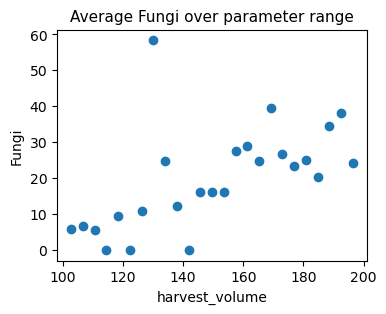
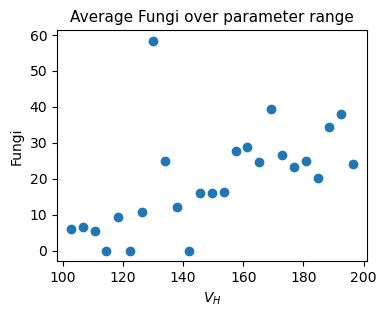
Some extra figures

diff --git a/Project/visualisation.py b/Project/visualisation.py
@@ -228,35 +228,40 @@ def plot_param_space_array(data, params, outputs):
     fig.show()
 
 
-def plot_param_range(data, param, outputs, param_range, mean_over_last=100):
+def plot_param_range(data, param, output, param_range, mean_over_last=100):
     """
     Create a plot that shows the output for a specific parameter over a range of values.
     Args:
         data (pd.DataFrame): collected data from the model runs
         param (str): name of the parameter to plot
-        outputs (list of str): names of the output of interest
+        outputs (str): name of the output of interest
         param_range (tuple): (min, max) range of values for the parameter
         mean_over_last (int): number of timesteps to average over for each replicate
     """
+
+    param_name_mapping = {
+        'harvest_volume': '$V_H$',
+        'harvest_nbrs': '$N_H$',
+        'harvest_prob': '$P_H$',
+        'top_n_sites_percent': '$P_\%$'
+    }
 
     fig, ax = plt.subplots()
     fig.set_size_inches(4, 3)
     
     data_subset = data[(data[param] >= param_range[0]) & (data[param] <= param_range[1])]
     param_values = data_subset[param].unique()
+    mean_outputs = []
 
-    for output in outputs:
-        mean_outputs = []
+    for param_value in param_values:
+        data_subset_param = data_subset[data_subset[param] == param_value]
+        n_values = data_subset_param.shape[0]
+        mean_output = data_subset_param[output].values[n_values - mean_over_last:].mean()
+        mean_outputs.append(mean_output)
 
-        for param_value in param_values:
-            data_subset_param = data_subset[data_subset[param] == param_value]
-            n_values = data_subset_param.shape[0]
-            mean_output = data_subset_param[output].values[n_values - mean_over_last:].mean()
-            mean_outputs.append(mean_output)
+    ax.scatter(param_values, mean_outputs, marker='o')
 
-        ax.scatter(param_values, mean_outputs, marker='o')
-
-    ax.set_xlabel(param)
+    ax.set_xlabel(param_name_mapping[param])
     ax.set_ylabel(output)
     ax.set_title(f'Average {output} over parameter range', fontsize=11)
     fig.show()
